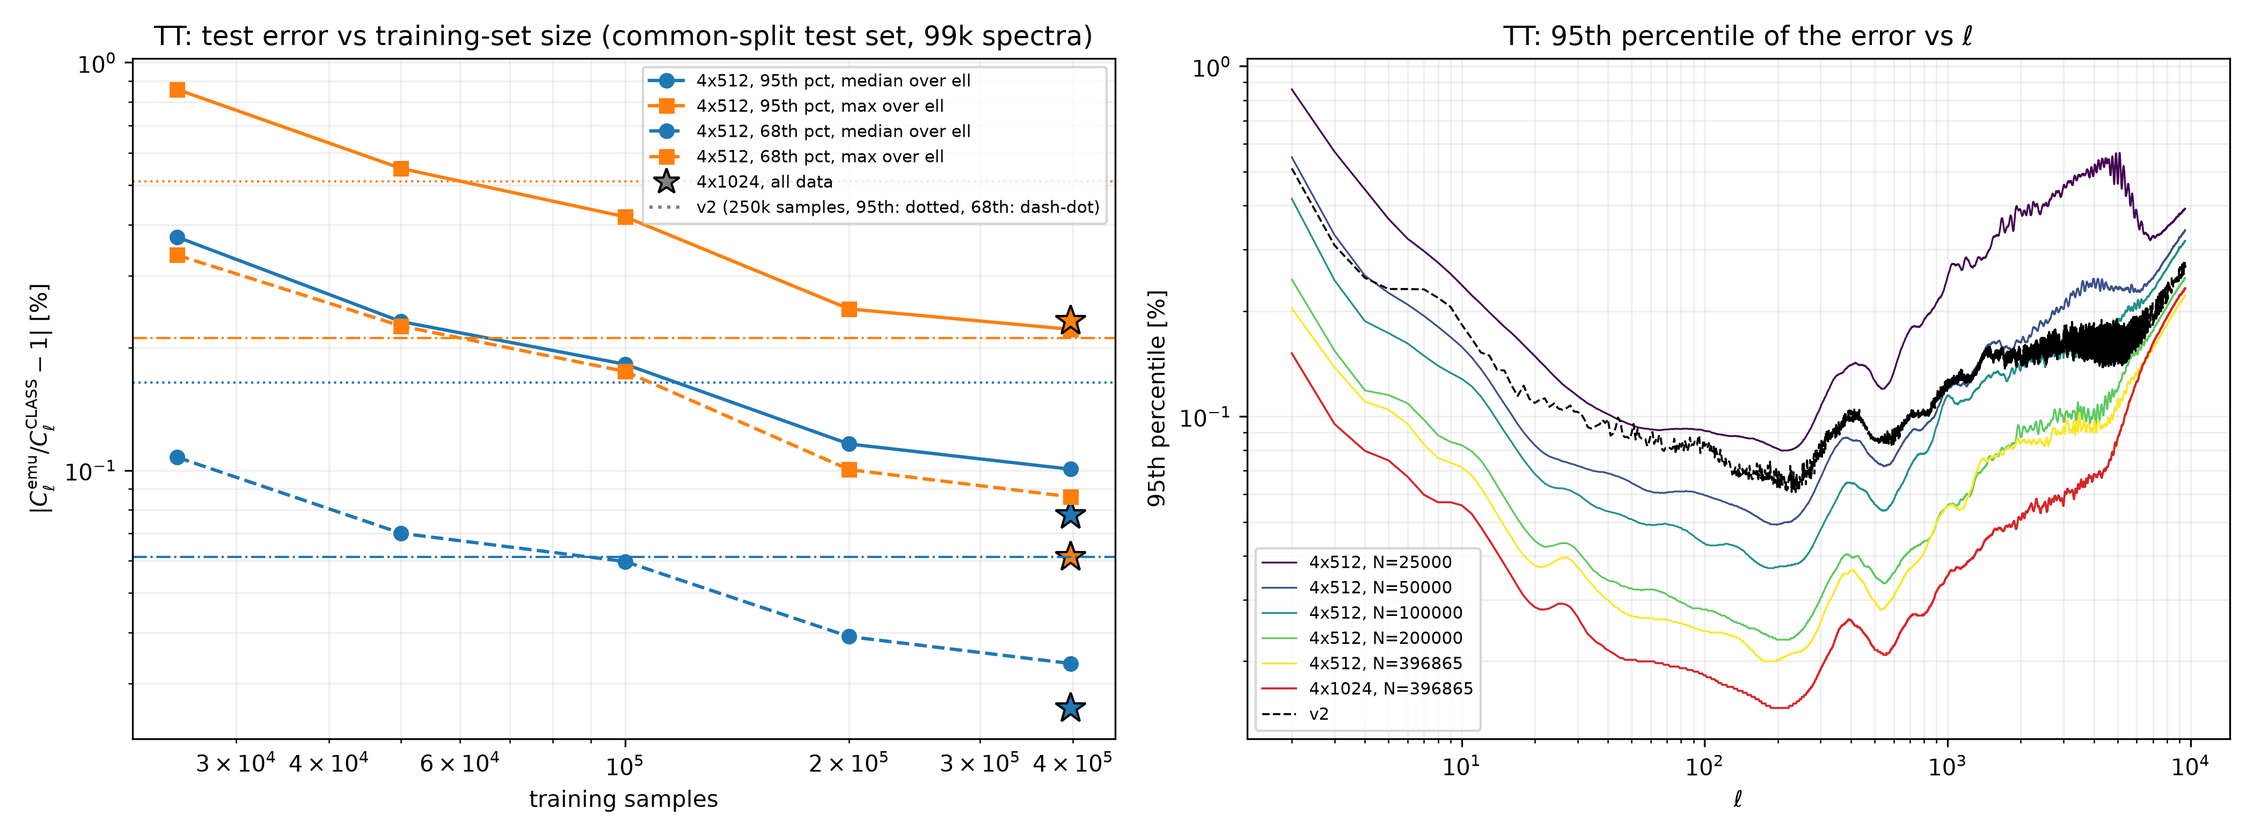
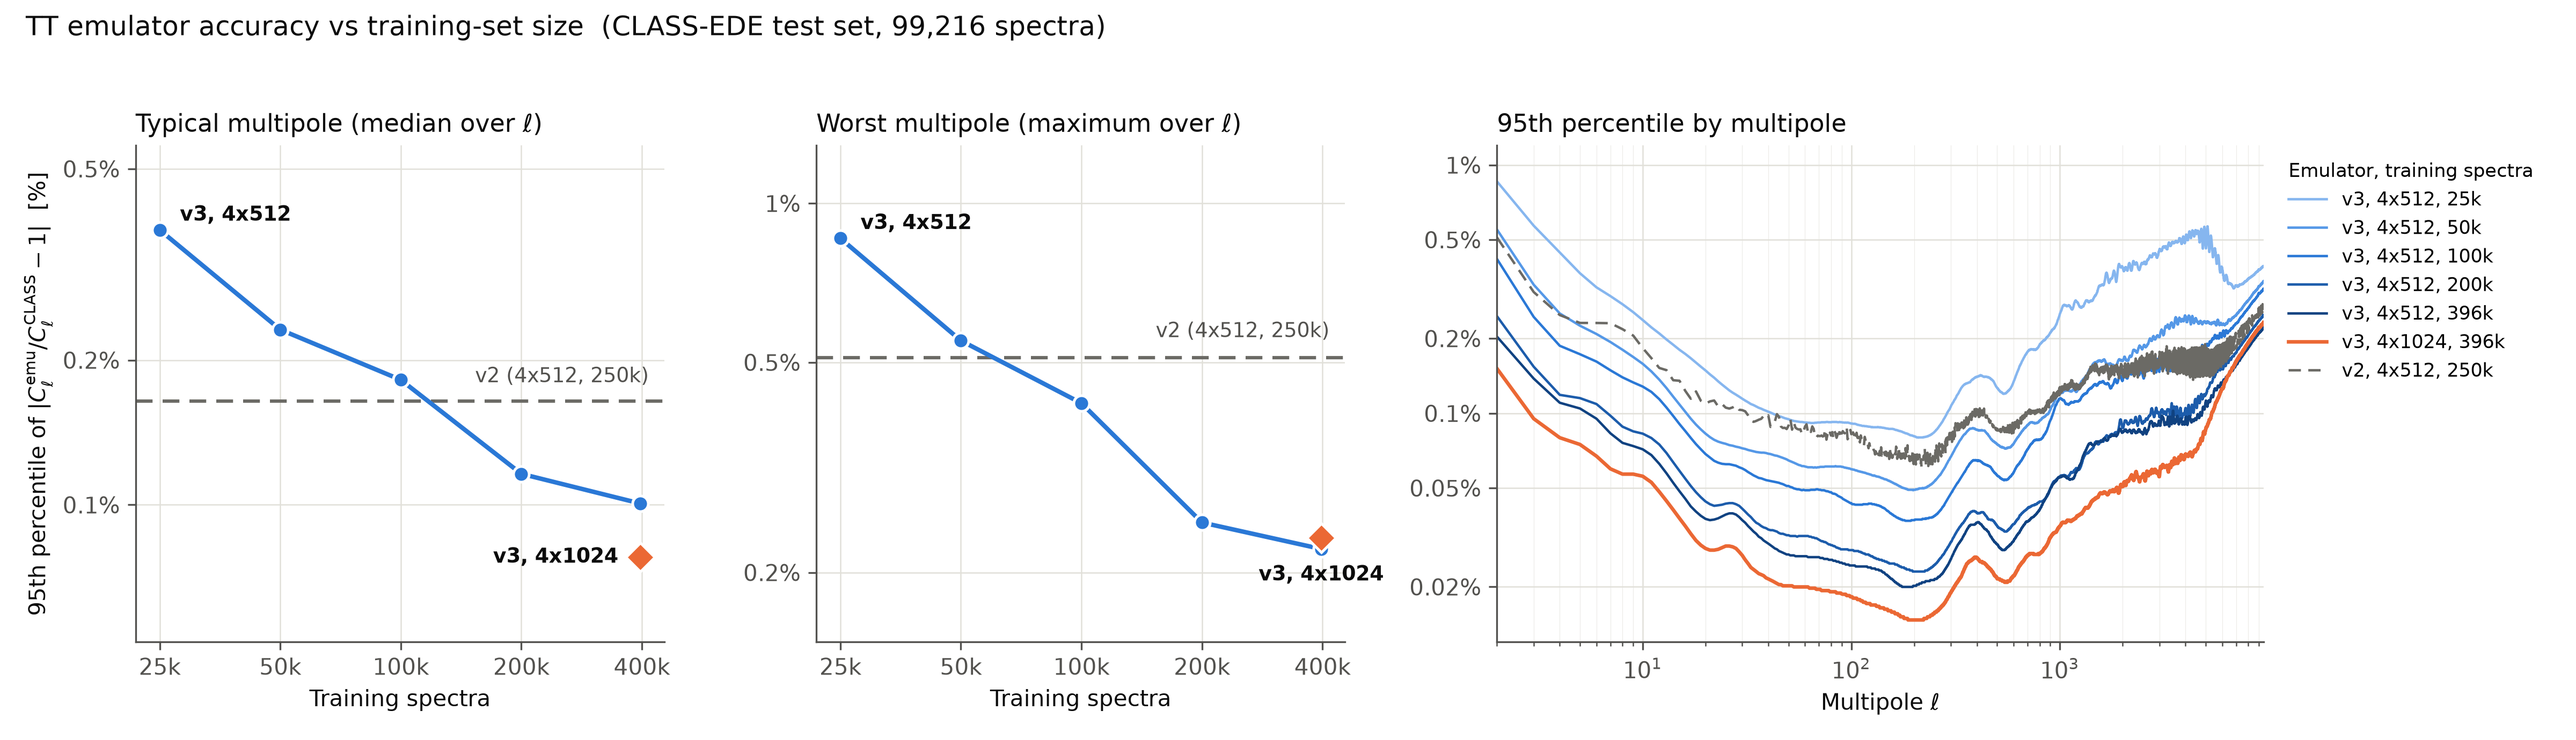
training_v3: clearer TT scaling figure
95th-percentile test error vs training-set size (median and worst
multipole) and vs multipole, with v2 as reference; plot_scaling.py
replaces plot_scaling_tt.py.

diff --git a/generation/training_v3/plot_scaling.py b/generation/training_v3/plot_scaling.py
@@ -1,0 +1,75 @@
+"""Scaling figure: 95th-percentile test error of an emulator vs training-set size, and vs multipole.
+(a) median over multipoles, (b) worst multipole, (c) error vs multipole for each training-set size."""
+import json, os, sys
+import numpy as np
+import matplotlib; matplotlib.use("Agg")
+import matplotlib.pyplot as plt
+from matplotlib.ticker import FixedLocator, FuncFormatter, NullLocator
+
+OBS = sys.argv[1] if len(sys.argv) > 1 else "TT"
+R = "/home/cmbagent/rds/ede-v3/runs"
+BLUE, ORANGE, GREY = "#2a78d6", "#eb6834", "#6b6a65"
+INK, INK2, GRID = "#0b0b0b", "#52514e", "#e1e0d9"
+SEQ = ["#86b6ef", "#5598e7", "#2a78d6", "#1c5cab", "#104281"]      # light -> dark: 25k ... 397k
+
+def pct(x): return 100 * (10 ** np.asarray(x) - 1)
+
+YT = [0.02, 0.05, 0.1, 0.2, 0.5, 1.0]
+def yticks(ax):
+    ax.yaxis.set_major_locator(FixedLocator(YT)); ax.yaxis.set_minor_locator(NullLocator())
+    ax.yaxis.set_major_formatter(FuncFormatter(lambda v, _: f"{v:g}%"))
+
+sizes = ("25000", "50000", "100000", "200000", "all")
+narrow = [json.load(open(f"{R}/cs_{OBS}_N{n}_h512x512x512x512_pca0_eval.json")) for n in sizes]
+wide = json.load(open(f"{R}/cs_{OBS}_Nall_h1024x1024x1024x1024_pca0_eval.json"))
+v2 = json.load(open(f"{R}/v2sub_{OBS}_eval.json"))
+N = np.array([r["ntrain"] for r in narrow])
+p95 = [np.asarray(r["per_mode"]["95"]) for r in narrow]
+ell = np.arange(2, 2 + len(v2["95"]))
+
+plt.rcParams.update({"font.size": 10, "axes.edgecolor": INK2, "axes.labelcolor": INK, "xtick.color": INK2,
+                     "ytick.color": INK2, "axes.linewidth": 0.8, "font.family": "DejaVu Sans"})
+fig, axes = plt.subplots(1, 3, figsize=(16, 4.6), gridspec_kw={"width_ratios": [1, 1, 1.45]})
+
+for ax, stat, title, off in ((axes[0], np.median, "Typical multipole (median over $\\ell$)", (-10, 0, "right", "center")),
+                             (axes[1], np.max, "Worst multipole (maximum over $\\ell$)", (0, -12, "center", "top"))):
+    y = [pct(stat(p)) for p in p95]
+    yv2, yw = pct(stat(v2["95"])), pct(stat(wide["per_mode"]["95"]))
+    ax.plot(N, y, "-o", color=BLUE, lw=2, ms=7, mec="white", mew=1.2, zorder=3)
+    ax.plot(wide["ntrain"], yw, "D", color=ORANGE, ms=9, mec="white", mew=1.2, zorder=4)
+    ax.axhline(yv2, color=GREY, lw=1.5, ls=(0, (5, 3)), zorder=2)
+    ax.text(N[-1] * 1.05, yv2 * 1.07, "v2 (4x512, 250k)", color=INK2, fontsize=9, va="bottom", ha="right")
+    ax.annotate("v3, 4x512", (N[0], y[0]), xytext=(9, 2), textcoords="offset points", color=INK, fontsize=9,
+                fontweight="bold", va="bottom")
+    ax.annotate("v3, 4x1024", (wide["ntrain"], yw), xytext=off[:2], textcoords="offset points",
+                color=INK, fontsize=9, fontweight="bold", ha=off[2], va=off[3])
+    ax.set_xscale("log"); ax.set_yscale("log")
+    ax.set_xlabel("Training spectra")
+    ax.set_title(title, fontsize=11, color=INK, loc="left")
+    ax.grid(which="major", color=GRID, lw=0.6); ax.grid(which="minor", color=GRID, lw=0.3, alpha=0.6)
+    ax.set_xticks([25000, 50000, 100000, 200000, 400000], ["25k", "50k", "100k", "200k", "400k"])
+    ax.minorticks_off()
+    lo = min(min(y), yw, yv2); hi = max(max(y), yv2)
+    ax.set_ylim(lo / 1.5, hi * 1.5); yticks(ax)
+axes[0].set_ylabel(r"95th percentile of $|C_\ell^{\rm emu}/C_\ell^{\rm CLASS}-1|$  [%]")
+
+ax = axes[2]
+for i, (r, p) in enumerate(zip(narrow, p95)):
+    ax.loglog(ell, pct(p), color=SEQ[i], lw=1.1, label=f"v3, 4x512, {r['ntrain'] // 1000}k")
+ax.loglog(ell, pct(wide["per_mode"]["95"]), color=ORANGE, lw=1.6, label=f"v3, 4x1024, {wide['ntrain'] // 1000}k")
+ax.loglog(ell, pct(v2["95"]), color=GREY, lw=1.1, ls=(0, (5, 3)), label="v2, 4x512, 250k")
+ax.set_xlabel(r"Multipole $\ell$")
+ax.set_title("95th percentile by multipole", fontsize=11, color=INK, loc="left")
+ax.grid(which="major", color=GRID, lw=0.6); ax.grid(which="minor", color=GRID, lw=0.3, alpha=0.6)
+ax.set_xlim(2, ell[-1])
+ax.set_ylim(0.012, 1.2); yticks(ax)
+ax.legend(fontsize=8.5, frameon=False, loc="upper left", bbox_to_anchor=(1.01, 1.0), title="Emulator, training spectra",
+          title_fontsize=8.5, alignment="left")
+
+for a in axes:
+    for s in ("top", "right"):
+        a.spines[s].set_visible(False)
+fig.suptitle(f"{OBS} emulator accuracy vs training-set size  (CLASS-EDE test set, 99,216 spectra)", fontsize=12, color=INK, x=0.01, ha="left")
+plt.tight_layout(rect=(0, 0, 1, 0.95))
+plt.savefig(f"/home/cmbagent/rds/ede-v3/scaling_{OBS}_clean.png", dpi=300, facecolor="white")
+print("saved")

diff --git a/generation/training_v3/README.md b/generation/training_v3/README.md
@@ -19,7 +19,7 @@ Same CLASS-EDE training set as v2 (`../README.md`, Google Drive folder `ede-fina
 
 `eval_v2.py` (v2 on its own 2024 test sets), `summarize.py`, `eval_te.py` (TE in units of the cosmic-variance error per l, sigma_l = sqrt((C_TT C_EE + C_TE^2)/(2l+1)), on 19,841 runs that are in the common-split test set and in the 2024 TE test set). Accuracy tables are in `../../README.md`.
 
-Test error against training-set size for TT (`plot_scaling_tt.py`):
+Test error against training-set size for TT (`plot_scaling.py`):
 
 ![TT scaling](scaling_TT.png)
 
